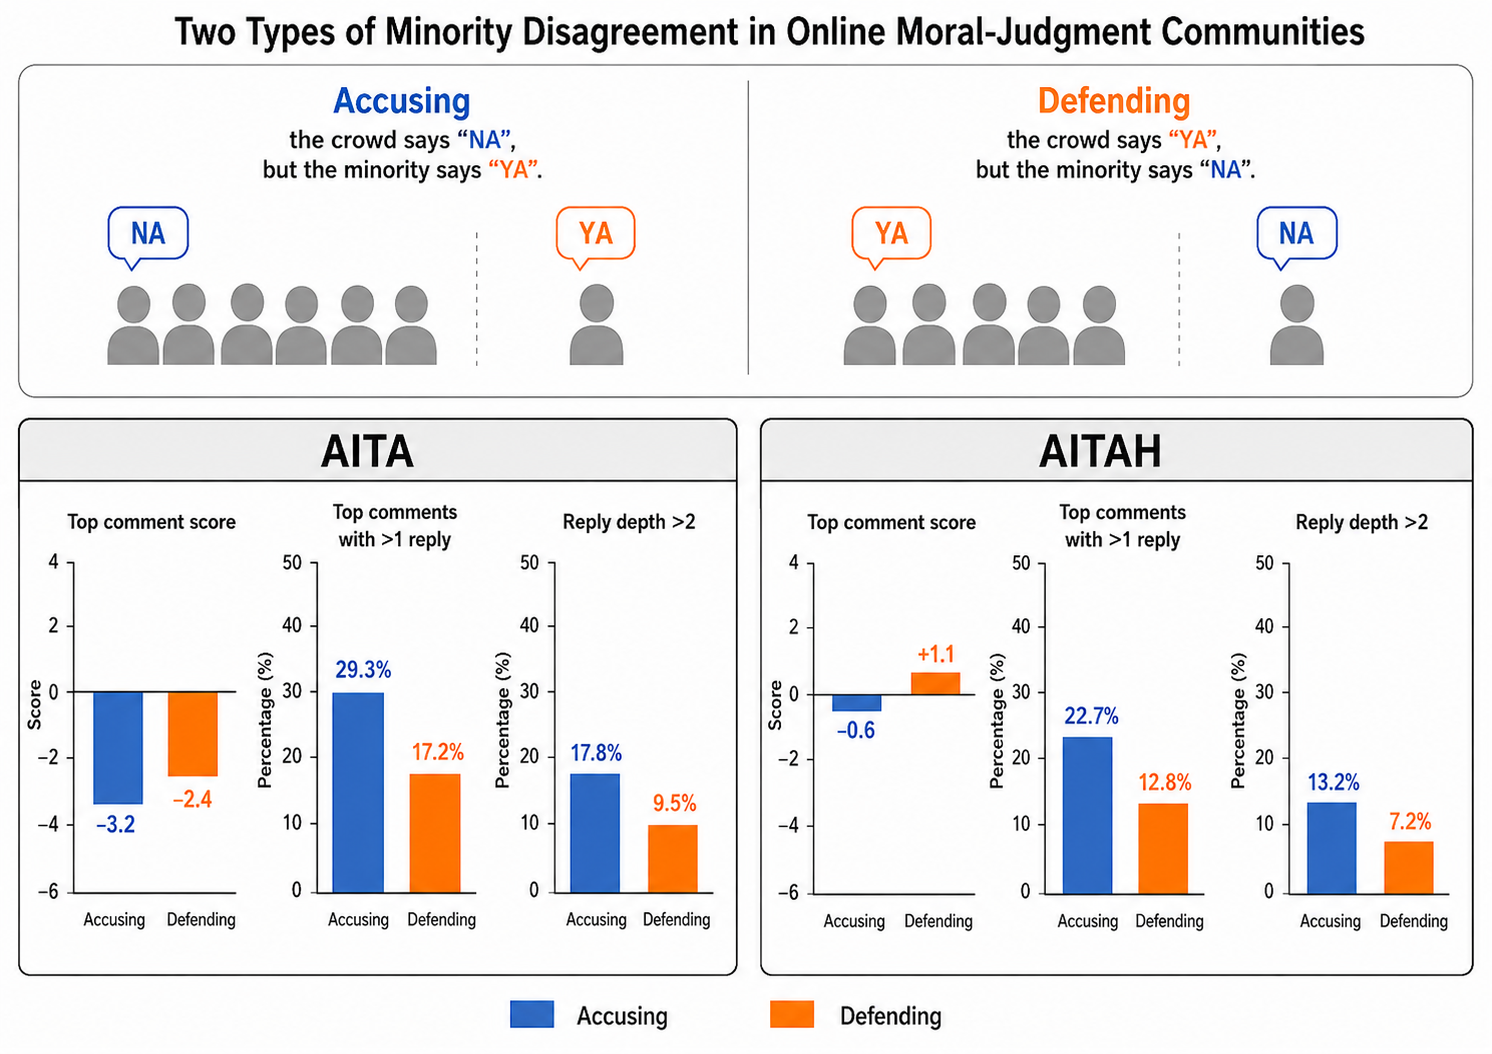
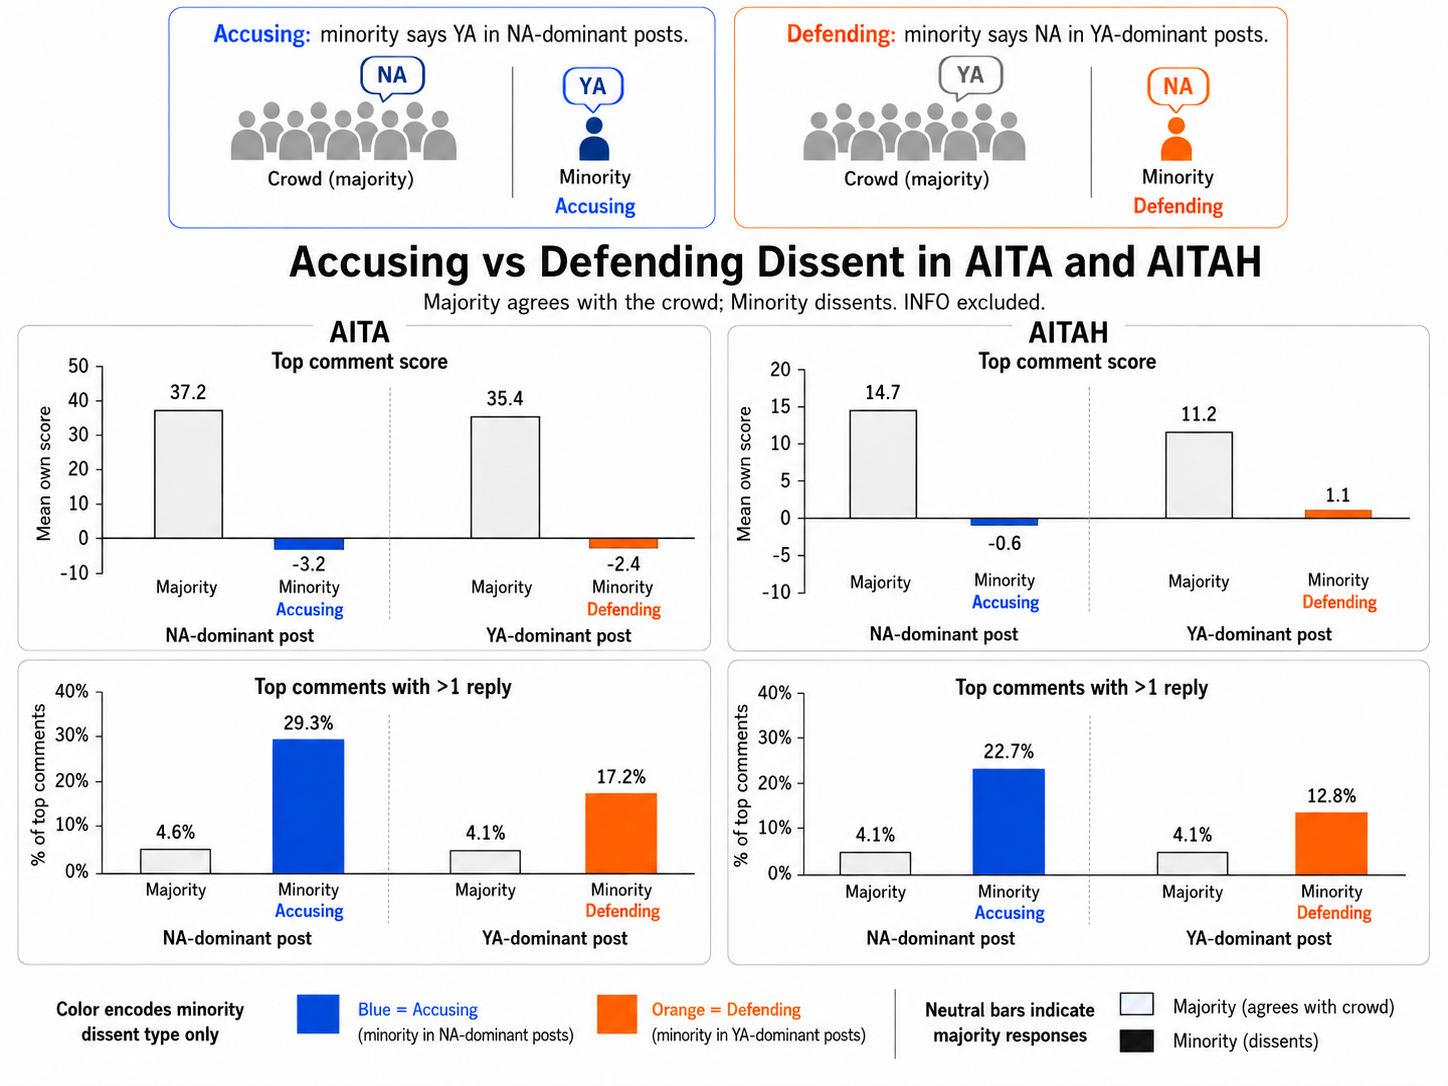
Updates from Overleaf

diff --git a/sections/4_results.tex b/sections/4_results.tex
@@ -18,64 +18,78 @@ from here: we focus on minority in consensual posts only
 \subsection{RQ3: The direction of dissent --- accusing versus defending}
 \label{subsec:res-direction}
 
-Late Certainty -- dominated by the 'defend' stance
+Figure~\ref{fig:dissent-direction} compares accusing and defending dissent
+(\S\ref{subsec:method}) in $1{,}500$ sampled consensual high-volume posts from
+each community. Each condition is shown against the majority comments of the
+same post type, which are not themselves classified by direction.
 
-Within the minority of a consensual post, dissent points in one of two moral
-directions. \textbf{Accusing} dissent blames an OP the crowd has absolved;
-\textbf{defending} dissent absolves an OP the crowd has blamed. The two are
-treated differently on every measure we compute, and in the same direction in
-both communities (Figure~\ref{fig:direction}).
+\textbf{[TODO: report the number of minority and majority comments per
+condition]}
 
-\textbf{[TODO: report the number of accusing and defending minority comments
-per community, and whether the reported scores are means or medians]}
+\paragraph{Voting disfavors the minority in both directions.}
+Across both communities, minority comments received markedly lower scores than
+the majority comments of the same post type. In AITA, accusing minority
+comments had a mean score of $-3.2$ against $37.2$ for majority comments in
+NA-dominant posts, and defending minority comments $-2.4$ against $35.4$ in
+YA-dominant posts. AITAH shows the same ordering on a compressed scale:
+accusing minority comments averaged $-0.6$ against $14.7$, and defending
+minority comments $1.1$ against $11.2$. The one condition in which dissent
+attracts net approval---defending dissent in AITAH---still falls an order of
+magnitude below the majority it is measured against, so the gap is a matter of
+degree rather than of sign.
 
-\paragraph{Accusing is penalized more heavily.}
-In AITA the average accusing comment scores $-3.2$, against $-2.4$ for
-defending. In AITAH, where scores run higher throughout, the gap is wider and
-straddles zero: accusing averages $-0.6$ while defending averages $+1.1$. The
-ordering is the same in both communities, but AITAH separates the two
-directions qualitatively rather than only in degree---a dissenter who defends a
-condemned OP ends up with net approval, while one who accuses an absolved OP
-does not.
+\paragraph{Replies move in the opposite direction.}
+In AITA, $29.3\%$ of accusing and $17.2\%$ of defending minority comments drew
+more than one reply, against only $4.6\%$ and $4.1\%$ of their respective
+majority baselines. AITAH repeats the asymmetry: $22.7\%$ and $12.8\%$ for
+minority comments against $4.1\%$ for both majority baselines. The baselines
+are the informative part here. Majority comments are answered at an almost
+constant low rate---between $4.1\%$ and $4.6\%$ regardless of post type or
+community---while the minority rate varies by a factor of three across the same
+cells. Whatever governs how much reply a comment attracts operates almost
+entirely on dissent.
 
-\paragraph{Accusing generates more discussion.}
-The engagement measures reverse the sign of the disadvantage. In AITA,
-$29.3\%$ of accusing comments draw more than one reply, against $17.2\%$ of
-defending comments, and $17.8\%$ seed a subtree deeper than two levels, against
-$9.5\%$. AITAH reproduces the pattern at uniformly lower levels: $22.7\%$
-versus $12.8\%$ for replies, and $13.2\%$ versus $7.2\%$ for depth. The ratios
-are strikingly stable across both communities and both measures: accusing
-dissent draws between $1.7$ and $1.9$ times as much discussion as defending
-dissent, even as the absolute rates differ by a third between communities.
+\paragraph{Accusing draws more discussion than defending.}
+Within the minority, the accusing direction is consistently the more engaged
+one. It exceeds defending dissent by a factor of $1.70$ in AITA and $1.77$ in
+AITAH on the reply measure, and by $1.87$ and $1.83$ on reply depth, where
+$17.8\%$ of accusing against $9.5\%$ of defending comments in AITA, and
+$13.2\%$ against $7.2\%$ in AITAH, seed subtrees deeper than two levels. The
+absolute rates differ by roughly a third between the two communities, yet every
+one of these ratios falls between $1.7$ and $1.9$.
 
-Sanction and attention therefore do not track a single underlying severity. If
-the crowd simply responded more strongly to more objectionable dissent, the two
-would move together; instead the direction that is voted down hardest is also
-the direction that is answered most. Accusations against a lenient consensus
-provoke confrontation, whereas defenses of a condemned OP are more often left
-alone.
+Taken together, these descriptive patterns separate approval from
+conversational attention. Minority judgments were strongly disfavored in voting
+relative to majority judgments, yet were disproportionately likely to initiate
+further discussion, and the contrast is sharpest for accusing dissent. Sanction
+and attention therefore do not track a single underlying severity: the direction
+that is voted down hardest is also the direction that is answered most.
 
 \begin{figure}[t]
   \centering
   \includegraphics[width=\columnwidth]{figures/direction.png}
-  \caption{Accusing versus defending dissent in consensual posts, by community.
-  Accusing minority comments score lower than defending ones in both AITA and
-  AITAH, yet are $1.7$--$1.9$ times more likely to draw multiple replies and to
-  seed reply subtrees deeper than two levels.
-  \textbf{[TODO: confirm the figure file name and panel layout]}}
-  \label{fig:direction}
+  \caption{Accusing versus defending dissent in $1{,}500$ sampled consensual
+  high-volume posts per community, with majority comments from the same post
+  type as baselines. Minority comments score far below the majority in every
+  condition, yet are three to five times more likely to draw more than one
+  reply; accusing dissent exceeds defending dissent on both engagement measures
+  in both communities.
+  \textbf{[TODO: report median or distribution instead of mean, add p values]}}
+  \label{fig:dissent-direction}
 \end{figure}
 
 
 
 \subsection{RQ4: AITA/AITAH + timeline}
 \paragraph{Certainty change over time
-18h rule}
+18h rule.}
 Figure~\ref{fig:certainty-time-series} shows the mean certainty expressed by majority- and minority-side comments during the first 25 hours after submission.
 Majority-side comments consistently express greater certainty than minority-side comments in both communities. After the 18-hour threshold, minority certainty increases in AITA but decreases temporarily in AITAH.
 
 \paragraph{Minority verdict
-ratio over time}
+ratio over time.}
+Minority participation develops differently depending on whether the minority accuses or defends the OP. In both communities, accusing minorities in NA-dominant posts remain relatively stable or gradually increase over time. By contrast, defending minorities in YA-dominant posts follow different trajectories: their cumulative share rises slightly in AITA but declines sharply in AITAH, from approximately 11\% to 7\%. Thus, the strongest temporal change occurs among commenters who defend an OP condemned by the majority, particularly in AITAH.
+
 
 
 Certainty / share changes over time
@@ -95,7 +109,36 @@ Certainty / share changes over time
     \label{fig:certainty-time-series}
 \end{figure}
 
+
+\begin{figure}[t]
+    \centering
+\includegraphics[width=\columnwidth]
+    {figures/aita_minority_verdict_ratio.png}
+
+    \vspace{0.5em}
+
+    \includegraphics[width=\columnwidth]
+    {figures/aitah_minority_verdict_ratio.png}
+
+    \caption{\textbf{Defending and accusing minorities follow different
+    temporal patterns.} Cumulative minority-verdict share during the first
+    24 hours in AITA (top) and AITAH (bottom), restricted to posts receiving
+    at least 200 verdicts. Minority commenters are YTA/ESH in NA-dominant
+    posts and NTA/NAH in YA-dominant posts. INFO verdicts are excluded.
+    Minority participation remains comparatively stable in AITA, whereas
+    the share of defending minorities in YA-dominant AITAH posts declines
+    over time.}
+    \label{fig:minority-verdict-ratio}
+\end{figure}
 \subsection{RQ4: AITA/AITAH + shared post in different communities}
 \label{subsec:res-duplicates}
 
+Majority comments receive significantly lower median scores in AITAH than in AITA, based on 102 complete pairs.
+Minority comments receive significantly higher—or less negative—median scores in AITAH than in AITA, based on 77 complete pairs.
+Thus, the score separation between majority and minority comments is substantially larger in AITA.
+
+Of the 103 pairs meeting the $\mathrm{YANA\_total} \geq 20$ threshold, one was excluded because an AITAH post had an exact 50/50 verdict tie, making its majority status undefined. Minority comments receive significantly higher---or less negative---median scores in AITAH than in AITA, based on 77 complete pairs. The remaining 26 pairs were excluded because at least one copy contained no minority comments, so a minority-comment median could not be calculated. Thus, among posts for which each comparison was observable, the score separation between majority and minority comments was substantially larger in AITA.
+
 community behaviour difference. e.g. minority group is punished more in AITA
+
+

diff --git a/sections/9_appendix.tex b/sections/9_appendix.tex
@@ -1,6 +1,8 @@
 \appendix
+\newpage
+\section{Appendix}
 
-\section{Verdict Tags in AITA and AITAH}
+\subsection{Verdict Tags in AITA and AITAH}
 \label{sec:appendix-tags}
 
 Both communities ask commenters to open a top-level reply with one of seven
@@ -18,9 +20,10 @@ AITAH additionally accepts H-suffixed aliases of the four OP-directed tags
 their unsuffixed counterparts before any analysis. \emph{NAH}, \emph{ESH}, and
 \emph{INFO} have no suffixed variant in either community.
 
-\begin{table}[t]
+\begin{table}[th]
   \centering
-  \begin{tabular}{@{}llp{0.42\columnwidth}@{}}
+  \small
+  \begin{tabular}{@{}llp{0.6\columnwidth}@{}}
     \toprule
     Tag & Group & Meaning \\
     \midrule
@@ -45,7 +48,49 @@ their unsuffixed counterparts before any analysis. \emph{NAH}, \emph{ESH}, and
   \label{tab:tags}
 \end{table}
 
-\section{Cross-Community User Overlap}
+
+\subsection{Post-Content Comparability}
+\label{sec:appendix-content}
+
+The two communities discuss substantially, but not identically, the same
+situations. A classifier recovering a post's source community from its
+embedding alone reaches a ROC-AUC of $0.613$ under BGE and $0.568$ under E5,
+against a chance level of $0.50$, and the UMAP projection in
+Figure~\ref{fig:umap} shows why: the two communities interleave throughout the
+map, including within the small peripheral clusters that correspond to
+recurring situation types.
+
+The difference that remains is nonetheless systematic rather than noise.
+Maximum mean discrepancy and energy-distance tests reject equality of the two
+embedding distributions under both encoders (permutation $p=.005$ in every
+case). Topic modelling locates the difference in composition rather than in
+kind: the communities share most topics, but AITAH leans towards romantic and
+intimate relationships, while AITA carries relatively more everyday disputes
+over housing, money, food, transport, and family obligation (Jensen--Shannon
+distance between the topic distributions $0.187$ under BGE, $0.206$ under E5).
+
+We therefore do not treat the two communities as topically interchangeable, and
+the design does not require it. The paired analysis of
+\S\ref{subsec:res-duplicates} holds the story itself fixed, comparing how two
+crowds judge the same text, and for the unpaired analyses we treat
+\emph{agreement} across the communities, rather than their raw difference, as
+the evidential unit (\S\ref{subsec:method}).
+
+\begin{figure}[t]
+  \centering
+  \includegraphics[width=\columnwidth]{figures/embeddings.png}
+  \caption{Topical overlap between AITA and AITAH. $768$-dimensional
+  \texttt{bge-base-en-v1.5} embeddings of post texts, projected to two
+  dimensions with UMAP and colored by source community. The two communities
+  interleave rather than separate, including within the small peripheral
+  clusters, and community is only weakly recoverable from these embeddings
+  (ROC-AUC $0.613$; $0.568$ under E5, chance $=0.50$)---though distributional
+  tests still detect a reliable difference in topic composition.}
+  \label{fig:umap}
+\end{figure}
+
+
+\subsection{Cross-Community User Overlap}
 \label{sec:appendix-overlap}
 
 Table~\ref{tab:shared-users} reports the user overlap between AITA and AITAH
@@ -55,6 +100,8 @@ text is stable across all of them: roughly a fifth of the combined user base is
 active in both communities, and tightening the cohort to heavier or
 longer-tenured users does not change that, whereas the overlap among story
 authors is an order of magnitude smaller.
+
+
 
 \begin{table}[t]
   \centering
@@ -79,3 +126,31 @@ authors is an order of magnitude smaller.
   \label{tab:shared-users}
 \end{table}
 
+\subsection{Comment Timing}
+\label{sec:appendix-timing}
+
+Figure~\ref{fig:timing} shows how quickly posts accumulate comments in each
+community, over the full high-volume cohort of \S\ref{subsec:dataset}: the
+$28{,}107$ AITA and $8{,}217$ AITAH posts with at least $200$ verdicts.
+
+The two communities are close over the range that matters for the threshold
+analysis of \S\ref{subsec:method}. The median post collects half of its
+top-level comments within $7.3$ hours in AITA and $6.7$ hours in AITAH, and
+$90\%$ of them within $17.7$ and $20.1$ hours---so AITA's $18$-hour verdict
+flair lands near the point at which a typical post has already received most of
+the top-level comments it will ever get. The communities diverge only in the
+long tail: AITAH threads keep drawing occasional replies far longer, with a
+median last comment at $158.0$ days against $52.5$ days in AITA. That gap is
+almost entirely in nested replies rather than new verdicts, since it disappears
+when the same measure is restricted to top-level comments ($31.3$ against
+$32.1$ days).
+
+\begin{figure}[t]
+  \centering
+  \includegraphics[width=\columnwidth]{figures/comment_timing.png}
+  \caption{Comment timing in (a) AITA and (b) AITAH. Both communities collect
+  most top-level comments within the first day, and AITA's $18$-hour verdict
+  threshold falls near the point at which a typical post has received $90\%$ of
+  them.}
+  \label{fig:timing}
+\end{figure}

diff --git a/sections/3_data_method.tex b/sections/3_data_method.tex
@@ -42,7 +42,7 @@ we define the \emph{YA share}
 The dominant verdict is $D(p)=\mathrm{YA}$ when $\rho(p)\ge0.5$ and
 $D(p)=\mathrm{NA}$ when $\rho(p)<0.5$.
 Unless otherwise noted, analyses are restricted to \emph{high-volume} posts
-with more than $200$ retained top-level verdict comments. We relax this
+with at least $200$ retained top-level verdict comments. We relax this
 threshold for the paired duplicate-post analysis in
 \S\ref{subsec:res-duplicates}, because matched posts rarely reach it in both
 communities.
@@ -91,7 +91,7 @@ a topic model and quantify differences between the estimated topic
 distributions using Jensen-Shannon distance
 \textbf{[TODO: specify the topic model and the number of topics]}. These procedures
 assess content comparability without assuming that the communities are
-topically interchangeable.
+topically interchangeable. Appendix~\ref{sec:appendix-content} reports the outcome.
 
 \subsubsection{Shared users.}
 Within the aligned window, we identify accounts active in both communities and,
@@ -105,6 +105,16 @@ For each shared user, we compute the share of activity occurring in AITAH, the
 community in which the user is first observed, the interval between first
 appearances in the two communities, posting and commenting rates, mean comment
 score, top-level comment rate, daily activity profile, and observed tenure.
+
+\subsubsection{Comment timing.}
+The two communities also accumulate comments on a similar schedule, which
+matters for the threshold analysis in \S\ref{subsec:method}. The median post
+reaches half of its top-level comments within $7.3$ hours in AITA and $6.7$
+hours in AITAH, and $90\%$ of them within $17.7$ and $20.1$ hours. AITA's
+verdict flair therefore appears at roughly the point at which a typical post
+has already collected most of the top-level comments it will ever receive,
+which bounds how much of the data the flair can plausibly affect.
+Appendix~\ref{sec:appendix-timing} reports the full distributions.
 
 \subsubsection{Duplicate posts.}
 We identify cross-community duplicates by exact text matching rather than
